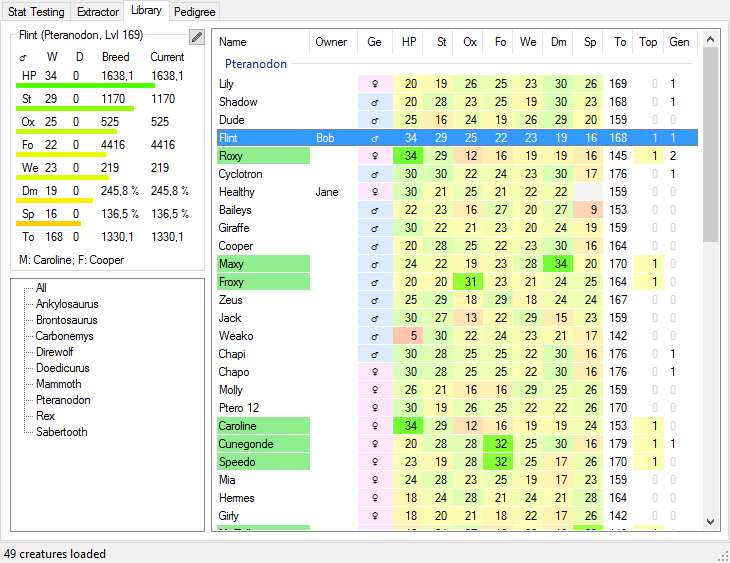
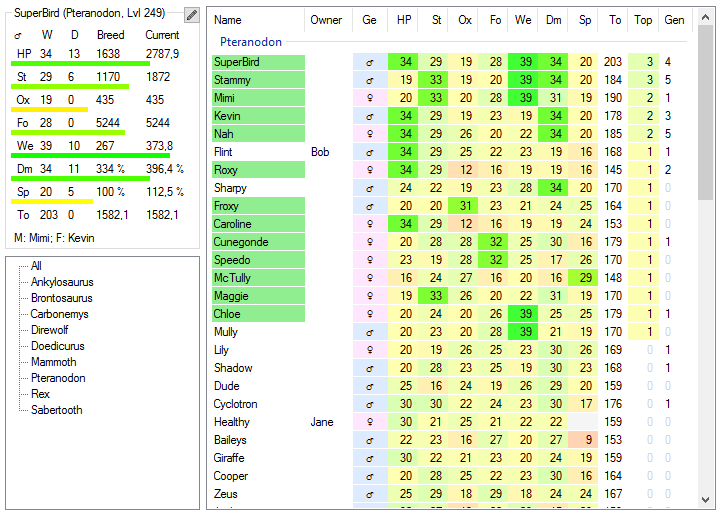
bugfix for determination of topCreatures

diff --git a/ARKBreedingStats/Form1.cs b/ARKBreedingStats/Form1.cs
@@ -397,7 +397,7 @@ namespace ARKBreedingStats
                     }
                     else
                     {
-                        statIOs[s].Status = StatIOStatus.Unique;
+                        statIOs[s].Status = StatIOStatus.Error;
                         results[s].Clear();
                         resultsValid = false;
                         if (!checkBoxAlreadyBred.Checked && statsWithEff.IndexOf(s) >= 0 && this.numericUpDownLowerTEffBound.Value > 0)
@@ -680,9 +680,9 @@ namespace ARKBreedingStats
         private void setSpeedLevelAccordingToOthers()
         {
             /*
-             * wild speed level is current level - (wild levels + dom levels). sometimes the oxygenlevel cannot be determined
+             * wild speed level is current level - (wild levels + dom levels) - 1. sometimes the oxygenlevel cannot be determined
              */
-            int notDeterminedLevels = (int)numericUpDownLevel.Value;
+            int notDeterminedLevels = (int)numericUpDownLevel.Value - 1;
             bool unique = true;
             for (int s = 0; s < statIOs.Count - 1; s++)
             {
@@ -1136,7 +1136,8 @@ namespace ARKBreedingStats
             // color for top-stats-nr
             if (topStatsCount > 0)
             {
-                lvi.BackColor = Color.LightGreen;
+                if (cr.topBreedingCreature)
+                    lvi.BackColor = Color.LightGreen;
                 lvi.SubItems[3].BackColor = Utils.getColorFromPercent(topStatsCount * 8 + 44, 0.7);
             }
             else
@@ -1335,11 +1336,14 @@ namespace ARKBreedingStats
 
         private void deleteSelectedToolStripMenuItem_Click(object sender, EventArgs e)
         {
-            if (MessageBox.Show("Do you really want to delete the entry and all data for \"" + listViewLibrary.SelectedItems[0].SubItems[0].Text + "\"?", "Delete Creature?", MessageBoxButtons.YesNo) == System.Windows.Forms.DialogResult.Yes)
+            if (listViewLibrary.SelectedItems.Count > 0)
             {
-                creatureCollection.creatures.Remove((Creature)listViewLibrary.SelectedItems[0].Tag);
-                setCollectionChanged(true);
-                updateCreatureListings();
+                if (MessageBox.Show("Do you really want to delete the entry and all data for \"" + listViewLibrary.SelectedItems[0].SubItems[0].Text + "\"?", "Delete Creature?", MessageBoxButtons.YesNo) == System.Windows.Forms.DialogResult.Yes)
+                {
+                    creatureCollection.creatures.Remove((Creature)listViewLibrary.SelectedItems[0].Tag);
+                    setCollectionChanged(true);
+                    updateCreatureListings();
+                }
             }
         }
 
@@ -1367,6 +1371,8 @@ namespace ARKBreedingStats
                     noCreaturesInThisSpecies = false;
                     // reset topBreeding stats for this creature
                     c.topBreedingStats = new bool[8];
+                    c.topBreedingCreature = false;
+
                     for (int s = 0; s < Enum.GetNames(typeof(StatName)).Count(); s++)
                     {
                         if (c.levelsWild[s] == bestStat[s] && c.levelsWild[s] > 0)
@@ -1391,20 +1397,24 @@ namespace ARKBreedingStats
                     topStats.Add(species, bestStat);
                 }
 
-                //beststat and bestcreatures now contain the best creatures for each stat and the best values.
-                //if any male is in more than 1 category, remove any male in that category that is not in at least 2 categories himself
+                // beststat and bestcreatures now contain the best stats and creatures for each stat.
+                // if any male is in more than 1 category, remove any male from the topBreedingCreatures that is not top in at least 2 categories himself
                 for (int s = 0; s < Enum.GetNames(typeof(StatName)).Count(); s++)
                 {
                     if (bestCreatures[s] == null || bestCreatures[s].Count == 0)
                     {
-                        continue; // no creature has leveledup this stat or the stat is not used for this species
+                        continue; // no creature has levelups in this stat or the stat is not used for this species
                     }
 
                     if (bestCreatures[s].Count == 1)
+                    {
+                        bestCreatures[s][0].topBreedingCreature = true;
                         continue;
+                    }
 
                     for (int c = 0; c < bestCreatures[s].Count; c++)
                     {
+                        bestCreatures[s][c].topBreedingCreature = true;
                         if (bestCreatures[s][c].gender != Gender.Male)
                             continue;
 
@@ -1437,7 +1447,7 @@ namespace ARKBreedingStats
                                         othermaxval++;
                                 }
                                 if (othermaxval == 1)
-                                    bestCreatures[s][oc] = null;
+                                    bestCreatures[s][oc].topBreedingCreature = false;
                             }
                         }
                     }
@@ -1454,7 +1464,7 @@ namespace ARKBreedingStats
                     {
                         for (int c = 0; c < bestCreatures[s].Count; c++)
                         {
-                            Console.WriteLine(bestCreatures[s][c].gender + " " + bestCreatures[s][c].name + " for " + (StatName)s + " value of " + bestCreatures[s][c].levelsWild[s] + " (" + bestCreatures[s][c].valuesBreeding[s] + ")");
+                            // Console.WriteLine(bestCreatures[s][c].gender + " " + bestCreatures[s][c].name + " for " + (StatName)s + " value of " + bestCreatures[s][c].levelsWild[s] + " (" + bestCreatures[s][c].valuesBreeding[s] + ")");
                             // flag topstats in creatures
                             bestCreatures[s][c].topBreedingStats[s] = true;
                         }
@@ -1523,7 +1533,7 @@ namespace ARKBreedingStats
             if (tabControl1.SelectedIndex == 3 && pedigreeNeedsUpdate && listViewLibrary.SelectedItems.Count > 0)
             {
                 Creature c = (Creature)listViewLibrary.SelectedItems[0].Tag;
-                pedigree1.setCreature(c);
+                pedigree1.setCreature(c,true);
                 pedigreeNeedsUpdate = false;
             }
         }

diff --git a/ARKBreedingStats/Pedigree.cs b/ARKBreedingStats/Pedigree.cs
@@ -12,7 +12,7 @@ namespace ARKBreedingStats
 {
     public partial class Pedigree : UserControl
     {
-        public delegate void CreatureChangedEventHandler(Creature creature);
+        public delegate void CreatureChangedEventHandler(Creature creature, bool forceUpdate);
         public List<Creature> creatures;
         public Creature creature;
         public List<Creature> children = new List<Creature>();
@@ -171,9 +171,9 @@ namespace ARKBreedingStats
             return false;
         }
 
-        public void setCreature(Creature centralCreature)
+        public void setCreature(Creature centralCreature, bool forceUpdate = false)
         {
-            if (centralCreature != null && centralCreature != creature)
+            if (centralCreature != null && (centralCreature != creature) || forceUpdate)
             {
                 creature = centralCreature;
                 // set children

diff --git a/ARKBreedingStats/Creature.cs b/ARKBreedingStats/Creature.cs
@@ -18,6 +18,8 @@ namespace ARKBreedingStats
         public double[] valuesDom;
         [XmlIgnore]
         public bool[] topBreedingStats; // indexes of stats that are top for that species in the creaturecollection
+        [XmlIgnore]
+        public bool topBreedingCreature; // true if it has some topBreedingStats and if it's male, no other male has more topBreedingStats
         public string owner;
         public string note; // user defined note about that creature
         public Guid guid;

diff --git a/ARKBreedingStats/PedigreeCreature.cs b/ARKBreedingStats/PedigreeCreature.cs
@@ -79,7 +79,7 @@ namespace ARKBreedingStats
 
         private void PedigreeCreature_Click(object sender, EventArgs e)
         {
-            CreatureChanged(this.creature);
+            CreatureChanged(this.creature, false);
         }
 
         private void element_Click(object sender, EventArgs e)

diff --git a/ARKBreedingStats/AboutBox1.cs b/ARKBreedingStats/AboutBox1.cs
@@ -44,7 +44,7 @@ namespace ARKBreedingStats
         {
             get
             {
-                return "0.16";
+                return "0.16.2";
                 //return Assembly.GetExecutingAssembly().GetName().Version.ToString();
             }
         }
